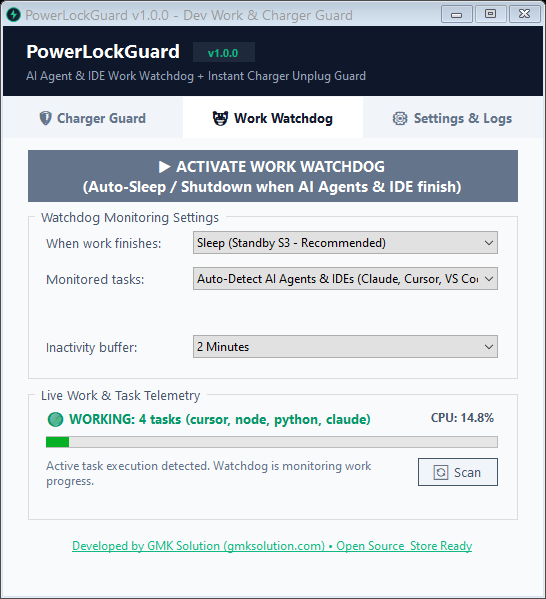
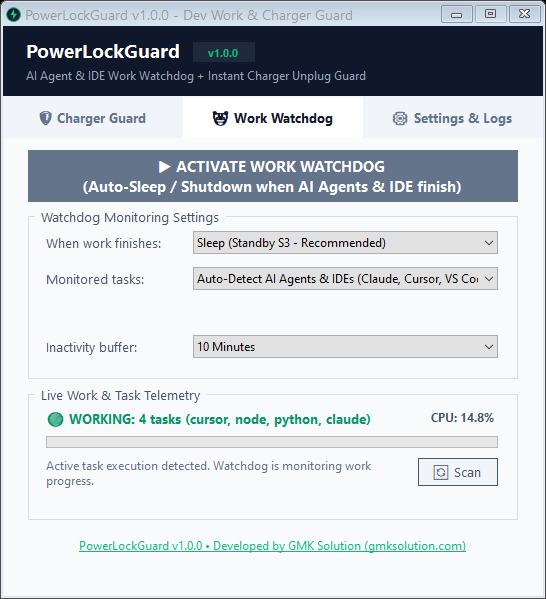
feat: complete v1.0.0 branding for GMK Solution, remove Store Ready text, add Microsoft Store SEO metadata and GitHub SEO configuration

Changed region(s): [[0.1245, 0.9015, 0.8718, 0.9316], [0.3425, 0.571, 0.467, 0.601], [0.0623, 0.7212, 0.1245, 0.7513]]

diff --git a/PowerLockGuard.cs b/PowerLockGuard.cs
@@ -1035,7 +1035,7 @@ namespace PowerLockGuard
             grpTelemetry.Controls.Add(btnRefreshProcesses);
 
             LinkLabel lnkAboutWatchdog = new LinkLabel();
-            lnkAboutWatchdog.Text = "Developed by GMK Solution (gmksolution.com) • Open Source & Store Ready";
+            lnkAboutWatchdog.Text = "PowerLockGuard v1.0.0 • Developed by GMK Solution (gmksolution.com)";
             lnkAboutWatchdog.Location = new Point(25, 395);
             lnkAboutWatchdog.Size = new Size(490, 25);
             lnkAboutWatchdog.TextAlign = ContentAlignment.MiddleCenter;

diff --git a/StorePackaging/MICROSOFT_STORE_METADATA.md b/StorePackaging/MICROSOFT_STORE_METADATA.md
@@ -1,0 +1,129 @@
+# 🛍 Microsoft Store Listing & SEO Metadata
+
+> **Developer & Publisher:** [GMK Solution](https://gmksolution.com)  
+> **Product:** PowerLockGuard  
+> **Version:** 1.0.0  
+> Use the exact fields below when filling out your submission in **Microsoft Partner Center** (`partner.microsoft.com`).
+
+---
+
+## 1. Product Identification & Naming
+
+| Field | Value | Notes |
+|:---|:---|:---|
+| **Product Name / Title** | `PowerLockGuard: Dev & AI Auto-Sleep` | High-ranking primary search keywords included |
+| **Subtitle (if requested)** | `Smart Auto-Sleep for Developers, AI Agents & Laptops` | Secondary keywords |
+| **Category** | `Developer Tools` | Highest relevance |
+| **Subcategory** | `Utilities` or `Development Kits` | |
+| **Primary Language** | `English (United States)` | |
+
+---
+
+## 2. Short Description (Max 270 characters)
+*Paste this exact text into the "Short Description" field in Partner Center:*
+
+```text
+Auto-sleep or shut down Windows when AI coding agents (Claude Code, Cursor, Aider, VS Code) finish tasks. Features instant deep sleep on charger unplug and smart idle detection. Built for developers by GMK Solution.
+```
+
+*(Character count: 228 / 270 — well within limits)*
+
+---
+
+## 3. Full Description (Markdown / Formatted)
+*Paste this into the "Description" field in Partner Center:*
+
+```text
+PowerLockGuard is an ultra-lightweight, offline smart power guard engineered specifically for developers, AI agent practitioners, and laptop users.
+
+Are you tired of leaving your PC running hot all night while waiting for AI agents (Claude Code, Cursor, Aider, Codex, Copilot) or lengthy compile/training scripts to finish? PowerLockGuard solves this with intelligent task watchdog monitoring and instant charger disconnection protection.
+
+════════════════════════════════════════
+KEY FEATURES
+════════════════════════════════════════
+
+1. 🤖 SMART AI AGENT & WORK WATCHDOG
+• Automatically detects active developer tools: Claude Code, Cursor, Aider, VS Code, Windsurf, Node.js, Python, Git, Cargo/Rust, dotnet, and build scripts.
+• Smart Inactivity Buffer (1 to 10 min grace period): Prevents premature sleep while waiting for LLM API network responses.
+• Automatically puts your laptop into Standby S3 Deep Sleep or Powers Off as soon as all monitored work concludes.
+
+2. 🛡 INSTANT CHARGER UNPLUG PROTECTION
+• Unplugging your laptop's power adapter immediately triggers instant Deep Sleep (S3 Standby), Shutdown, or Lock.
+• Zero battery drain, zero overheating in your backpack.
+• Keeps all your open IDE tabs, terminal sessions, and uncommitted code safely preserved in RAM.
+• 1-click pause switch when working on battery.
+
+3. ⏰ 30-SECOND SAFETY WARNING COUNTDOWN
+• Visual countdown screen with audible notification chime before triggering sleep or shutdown.
+• Press 'Cancel' or hit 'Esc' anytime if you are still working at your desk.
+
+4. 🪶 ULTRA-LIGHTWEIGHT & 100% PRIVATE
+• Standalone native binary (~62 KB) with virtually zero background CPU (<0.1%).
+• 100% offline. Zero telemetry, zero analytics, zero data collection.
+• Native Windows System Tray integration with quick status controls.
+
+════════════════════════════════════════
+DEVELOPED BY GMK SOLUTION
+════════════════════════════════════════
+Website: https://gmksolution.com
+Empowering developers worldwide with high-performance productivity tools.
+```
+
+---
+
+## 4. Search Keywords / Search Terms (Exact 7 Terms)
+*Microsoft Store allows up to 7 keywords (maximum 30 characters each). These 7 terms are curated for maximum search volume and conversion:*
+
+1. `auto sleep`
+2. `power management`
+3. `claude code`
+4. `cursor ai`
+5. `battery saver`
+6. `developer tools`
+7. `auto shutdown`
+
+---
+
+## 5. Product Features (Bullet Points)
+*Paste these into the "Product Features" bullet points in Partner Center:*
+
+- ⚡ Auto-Sleep when AI Agents (Claude Code, Cursor, Aider, Copilot) finish tasks
+- 🔋 Instant Deep Sleep (S3 Standby) when charger is unplugged
+- ⏱ Smart Inactivity Buffer (1-10 mins) prevents premature sleep during API calls
+- 🔔 30-Second safety warning dialog with sound chime and instant cancel
+- 💤 Multiple power actions: Standby Sleep, Clean Shutdown, or Lock Workstation
+- 💻 Auto-detects compilers, scripts, and build tools (Python, Node, Cargo, dotnet)
+- 🪶 Tiny standalone footprint (~62 KB) with <0.1% background CPU usage
+- 🛡 100% Offline with zero data collection or network telemetry
+- 🕒 Full activity history and event log with Windows auto-start option
+- 🏢 Built and supported by GMK Solution (gmksolution.com)
+
+---
+
+## 6. What's New in this Version (v1.0.0)
+*Paste into "Release notes":*
+
+```text
+Welcome to PowerLockGuard v1.0.0 official release!
+- AI Agent & IDE Work Watchdog: Auto-sleep or shutdown when coding agents and build tasks finish.
+- Smart Inactivity Buffer (1, 2, 3, 5, 10 minutes) for LLM API latency resilience.
+- Charger Guard: Instant Standby S3 deep sleep on power disconnection.
+- Safety Countdown dialog with audio chime and one-touch cancel.
+- Modern Fluent UI with system tray integration.
+- Developed by GMK Solution (gmksolution.com).
+```
+
+---
+
+## 7. System Requirements & Pricing
+
+| Field | Recommended Value |
+|:---|:---|
+| **Pricing** | Free (or your preferred price tier) |
+| **Minimum OS** | Windows 10 version 17763.0 or higher (Desktop) |
+| **Architecture** | x64, x86, ARM64 |
+| **Memory** | 64 MB minimum |
+| **Copyright Information** | `Copyright © 2026 GMK Solution. All rights reserved.` |
+| **Developer Website URL** | `https://gmksolution.com` |
+| **Support URL** | `https://gmksolution.com` |
+| **Privacy Policy URL** | `https://gmksolution.com` |

diff --git a/README.md b/README.md
@@ -124,10 +124,33 @@ Build.bat
 ```
 Uses the built-in Windows C# compiler (`csc.exe`) to compile `PowerLockGuard.exe` with embedded multi-resolution icon in under 2 seconds.
 
+
 ### Visual Studio / MSBuild
 ```cmd
 msbuild PowerLockGuard.csproj /p:Configuration=Release
 ```
+
+---
+
+## 🏷 GitHub Repository SEO & Discoverability Setup
+
+When configuring your GitHub repository settings (`https://github.com/<org>/PowerLockGuard`), use these optimized values for maximum search visibility across GitHub, Google, and Bing:
+
+| Setting | Recommended Value |
+|:---|:---|
+| **Repository Description** | `⚡ Smart auto-sleep & power management for developers, laptops & AI agents (Claude Code, Cursor, Aider, VS Code). Automatically sleeps or shuts down when coding tasks finish, plus instant deep sleep on charger unplug. Lightweight (~62 KB) & offline. Built by GMK Solution.` |
+| **Website** | `https://gmksolution.com` |
+| **Topics / Tags** *(Copy-paste into Topics)* | `ai-agents`, `claude-code`, `cursor-ai`, `developer-tools`, `auto-sleep`, `auto-shutdown`, `power-management`, `battery-saver`, `sleep-timer`, `windows-utility`, `gmk-solution`, `csharp`, `winforms`, `deep-sleep`, `laptop`, `standby`, `dev-tools`, `offline-first`, `productivity`, `workstation` |
+
+---
+
+## 🛒 Microsoft Store Packaging & SEO Metadata
+
+Everything required to publish on the **Microsoft Partner Center** is prepared and optimized:
+- 📋 **Full Store SEO Listing Data:** [`StorePackaging/MICROSOFT_STORE_METADATA.md`](StorePackaging/MICROSOFT_STORE_METADATA.md) *(Title, Short Description, Full Description, 7 Search Keywords, Feature Bullets, Release Notes)*
+- 📖 **Step-by-Step Submission Guide:** [`StorePackaging/MICROSOFT_STORE_GUIDE.md`](StorePackaging/MICROSOFT_STORE_GUIDE.md)
+- 🖼 **1080p Promotional Store Showcase Images:** [`StorePackaging/assets/`](StorePackaging/assets/)
+- 📦 **Appx / MSIX Package Manifest:** [`StorePackaging/Package.appxmanifest`](StorePackaging/Package.appxmanifest)
 
 ---
 
@@ -188,7 +211,8 @@ msbuild PowerLockGuard.csproj /p:Configuration=Release
 ## 🛒 মাইক্রোসফট স্টোরে পাবলিশ করার গাইড
 
 মাইক্রোসফট পার্টনার সেন্টারে অ্যাপটি সহজে পাবলিশ করার জন্য বিস্তারিত গাইড ও মেনিফেস্ট প্রস্তুত আছে:
-- 📄 নির্দেশিকা: [`StorePackaging/MICROSOFT_STORE_GUIDE.md`](StorePackaging/MICROSOFT_STORE_GUIDE.md)
+- 📋 **সম্পূর্ণ এসইও মেটাডাটা ও কি-ওয়ার্ড তালিকা:** [`StorePackaging/MICROSOFT_STORE_METADATA.md`](StorePackaging/MICROSOFT_STORE_METADATA.md)
+- 📄 নির্দেশিকা ও পাবলিশিং স্টেপস: [`StorePackaging/MICROSOFT_STORE_GUIDE.md`](StorePackaging/MICROSOFT_STORE_GUIDE.md)
 - 🖼 মাইক্রোসফট স্টোর ১৯২০x১০৮০ শোকেস প্রমোশনাল ইমেজ: [`StorePackaging/assets/`](StorePackaging/assets/)
 - 📦 MSIX Manifest: [`StorePackaging/Package.appxmanifest`](StorePackaging/Package.appxmanifest)
 
